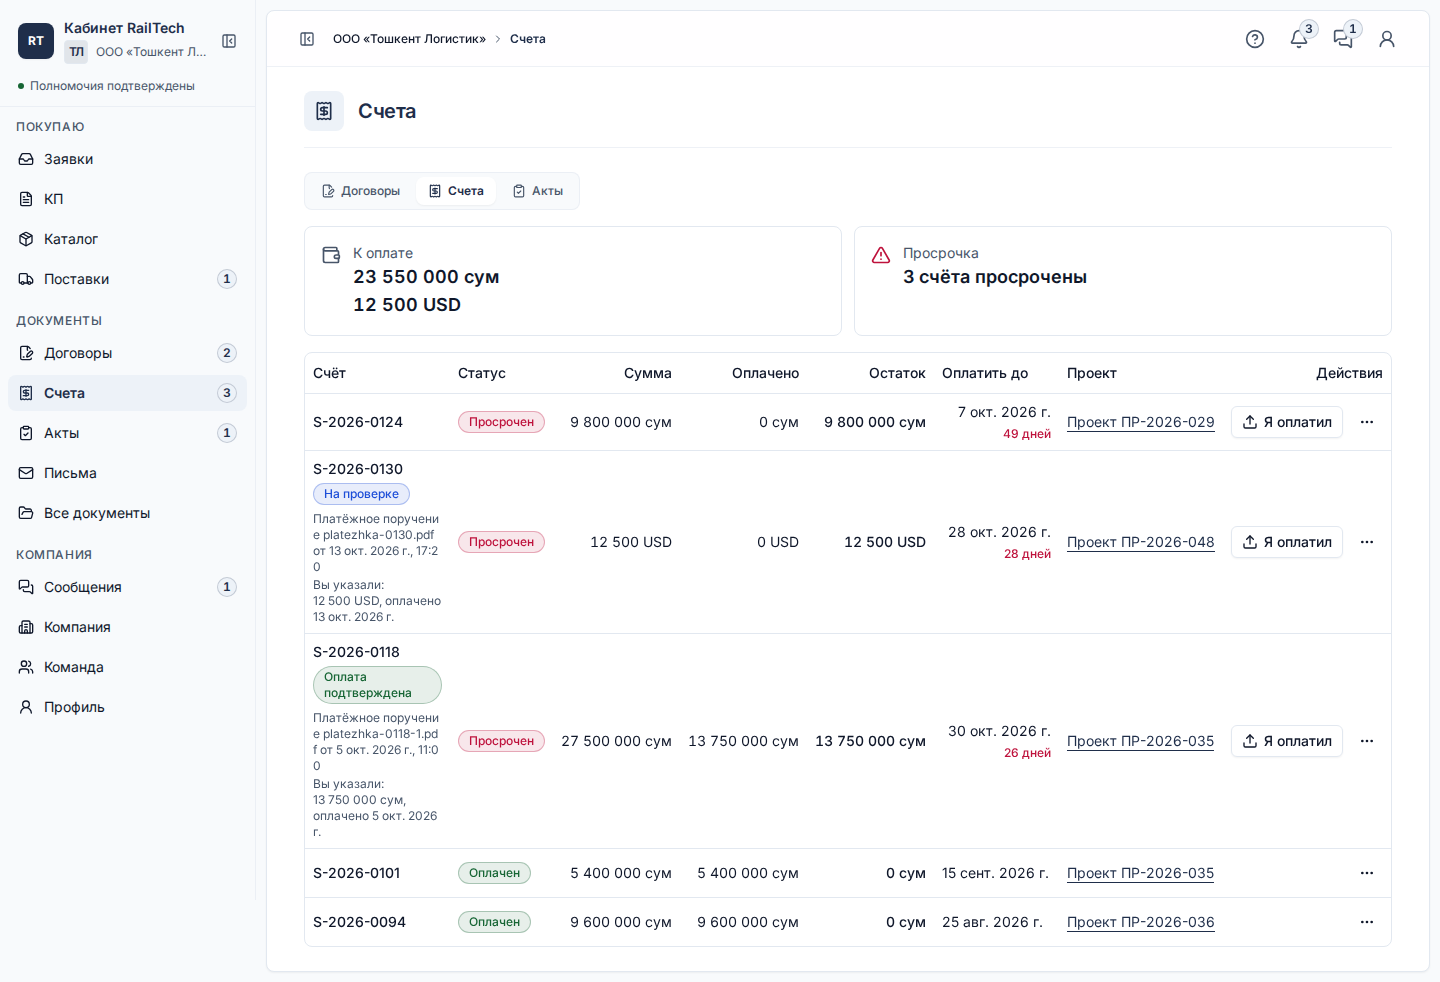
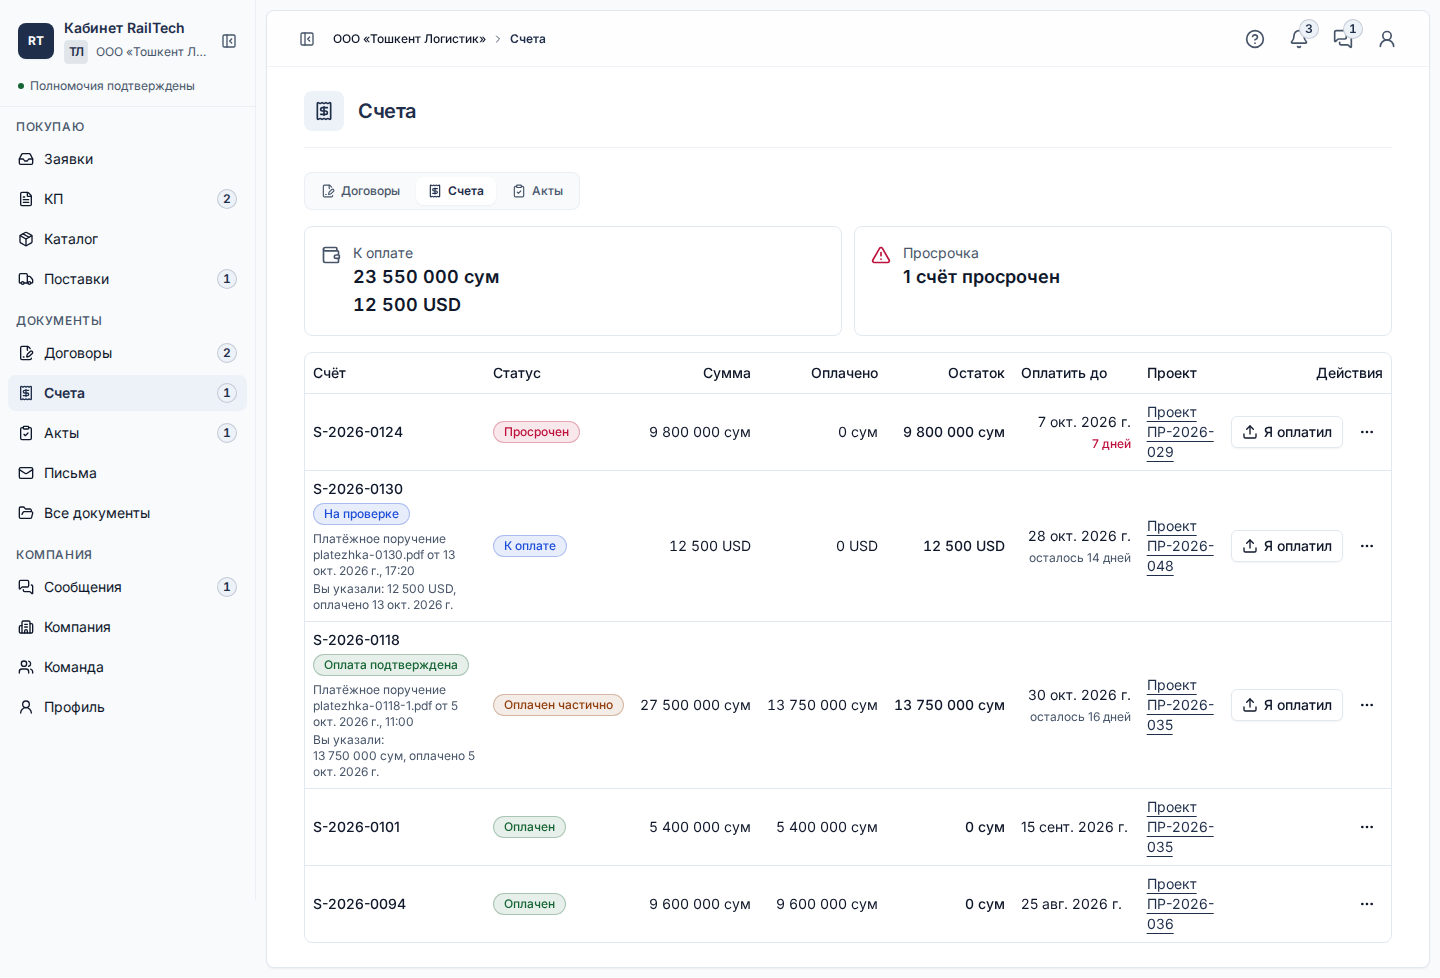
fix(cabinet,platform): review fixes - action tests with mutations, nowrap status labels, contract word on the CRM client card, act row without contract (SC-8)
Claude-Session: https://claude.ai/code/session_01PWGEKSEeREB93LLZqRcCYv

diff --git a/apps/cabinet/src/__tests__/deal-and-list.test.tsx b/apps/cabinet/src/__tests__/deal-and-list.test.tsx
@@ -76,6 +76,34 @@ describe('Сделка (deep-link бота)', () => {
     expect(within(screen.getByRole('region', { name: 'Счета' })).queryByText('Я оплатил')).toBeNull();
   });
 
+  it('СЦ-8: КП, ждущее решения, — «Ответить»; истёкшее — без кнопки', async () => {
+    signedIn();
+    renderApp('/deals/57');
+    await heading(/ПР-2026-057/);
+    expect(within(await screen.findByRole('region', { name: 'КП' })).getByText('Ответить')).toBeInTheDocument();
+  });
+
+  it('СЦ-8: истёкшее КП — без кнопки «Ответить»', async () => {
+    signedIn();
+    renderApp('/deals/33');
+    await heading(/ПР-2026-033/);
+    const quotes = await screen.findByRole('region', { name: 'КП' });
+    expect(within(quotes).getByText('KP-2026-0033', { exact: false })).toBeInTheDocument();
+    expect(within(quotes).queryByText('Ответить')).toBeNull();
+  });
+
+  it('СЦ-8: контакт без права действовать видит статус, но не кнопки действий', async () => {
+    signedIn('viewer');
+    const { unmount } = renderApp('/deals/29');
+    await screen.findByText('D-2026-0029');
+    expect(await screen.findByText('S-2026-0124')).toBeInTheDocument();
+    expect(screen.queryByText('Kelişiş')).toBeNull(); // «Согласовать» (uz — язык контакта-зрителя)
+    expect(screen.queryByText('Töladim')).toBeNull(); // «Я оплатил»
+    expect(screen.queryByText('Согласовать')).toBeNull();
+    expect(screen.queryByText('Я оплатил')).toBeNull();
+    unmount(); // сырые суммы моков сессии зрителя (не СЦ-8) не должны ловиться охраной текста
+  });
+
   it('чужая сделка — «не найдено»', async () => {
     signedIn();
     renderApp('/deals/999');

diff --git a/apps/cabinet/src/pages/billing.tsx b/apps/cabinet/src/pages/billing.tsx
@@ -224,7 +224,7 @@ export function InvoicesPage() {
               {
                 id: 'status',
                 header: t('pages.invoices.columns.status'),
-                cell: (row) => <StatusBadge entity="invoice" code={views.get(row.id)?.displayStatus ?? row.status} />,
+                cell: (row) => <StatusBadge entity="invoice" code={views.get(row.id)?.displayStatus ?? row.status} nowrap />,
                 className: 'whitespace-nowrap',
               },
               { id: 'total', header: t('pages.invoices.columns.total'), cell: (row) => formatMoney(row.total), className: 'text-right tabular-nums whitespace-nowrap' },
@@ -249,7 +249,7 @@ export function InvoicesPage() {
                   );
                 },
               },
-              { id: 'deal', header: t('pages.invoices.columns.deal'), cell: (row) => <DealLink deal={row.deal} /> },
+              { id: 'deal', header: t('pages.invoices.columns.deal'), cell: (row) => <DealLink deal={row.deal} />, className: 'max-w-36 whitespace-normal' },
             ]}
             actions={{
               header: t('common.actions'),
@@ -291,7 +291,7 @@ function ProofList({ invoice }: { invoice: Invoice }) {
         items={invoice.proofs.map((proof) => (
           <li key={proof.id} className="flex min-w-0 flex-col gap-0.5">
             <span className="flex flex-wrap items-center gap-1.5">
-              <StatusBadge entity="proof" code={proof.status} />
+              <StatusBadge entity="proof" code={proof.status} nowrap />
               <span className="min-w-0 break-words text-muted-foreground" title={proof.file_name}>
                 {t('pages.invoices.proofLine', { name: proof.file_name, date: formatDateTime(proof.submitted_at) })}
               </span>

diff --git a/apps/cabinet/src/components/StatusBadge.tsx b/apps/cabinet/src/components/StatusBadge.tsx
@@ -18,18 +18,22 @@ const TONE_CLASS: Record<StatusTone, string> = {
   neutral: 'border-border bg-muted text-muted-foreground',
 };
 
-export function ToneBadge({ tone, children, className }: { tone: StatusTone; children: React.ReactNode; className?: string }) {
+export function ToneBadge({ tone, children, className, nowrap }: { tone: StatusTone; children: React.ReactNode; className?: string; nowrap?: boolean }) {
   return (
-    <Badge variant="outline" className={cn('rounded-full px-2.5 py-0.5 text-xs font-medium whitespace-normal', TONE_CLASS[tone], className)}>
+    <Badge variant="outline" className={cn('rounded-full px-2.5 py-0.5 text-xs font-medium', nowrap ? 'whitespace-nowrap' : 'whitespace-normal', TONE_CLASS[tone], className)}>
       {children}
     </Badge>
   );
 }
 
 /** Бейдж статуса сущности контракта: подпись из `status.<entity>.<code>`, тон из `lib/status`. */
-export function StatusBadge<E extends StatusEntity>({ entity, code }: { entity: E; code: StatusCode<E> }) {
+export function StatusBadge<E extends StatusEntity>({ entity, code, nowrap }: { entity: E; code: StatusCode<E>; nowrap?: boolean }) {
   const { t } = useTranslation();
-  return <ToneBadge tone={statusTone(entity, code)}>{t(statusLabelKey(entity, code))}</ToneBadge>;
+  return (
+    <ToneBadge tone={statusTone(entity, code)} nowrap={nowrap}>
+      {t(statusLabelKey(entity, code))}
+    </ToneBadge>
+  );
 }
 
 /**

diff --git a/apps/platform/web/src/modules/eds/projects/ProjectView.tsx b/apps/platform/web/src/modules/eds/projects/ProjectView.tsx
@@ -185,7 +185,9 @@ function Documents({ card, objectId }: { card: ProjectCard; objectId: string }) 
         <DocRow
           number="—"
           type={t("card.documents.act")}
-          status={<span className="pf-hint">{actHint(card.act_blocker, t)}</span>}
+          status={
+            <span className="pf-hint">{actHint(card.act_blocker, t, contract !== null)}</span>
+          }
           action={canIssueAct ? <ActIssueButton objectId={objectId} /> : null}
         />
       )}
@@ -194,10 +196,15 @@ function Documents({ card, objectId }: { card: ProjectCard; objectId: string }) 
 }
 
 /** Статус строки «Акт» из факта `act_blocker` (почему акт нельзя выпустить), а не общая фраза. */
-function actHint(blocker: ProjectCard["act_blocker"], t: TFunction<"projects">): string {
+function actHint(
+  blocker: ProjectCard["act_blocker"],
+  t: TFunction<"projects">,
+  hasContract: boolean,
+): string {
   switch (blocker) {
     case "no_invoice":
-      return t("act.none.noInvoice");
+      // До договора счёта не будет и просить его выставить нельзя (ui-standard §14.2)
+      return hasContract ? t("act.none.noInvoice") : t("card.documents.actMissing");
     case "forbidden":
       return t("act.none.forbidden");
     case "not_delivered":

diff --git a/apps/platform/web/src/modules/eds/projects/ProjectCard.test.tsx b/apps/platform/web/src/modules/eds/projects/ProjectCard.test.tsx
@@ -140,6 +140,14 @@ describe("Проект: карточка", () => {
     expect(screen.getAllByText(ruProjects.clientStatus.contract_review)).toHaveLength(1);
   });
 
+  it("СЦ-8: у проекта без договора в строке «Акт» — «Акта ещё нет.», без просьбы выставить счёт", async () => {
+    signIn("director@demo.example");
+    renderAt(PR(104));
+    const docs = await screen.findByRole("region", { name: "Документы проекта" });
+    expect(within(docs).getByText("Акта ещё нет.")).toBeVisible();
+    expect(docs).not.toHaveTextContent("выставьте его");
+  });
+
   it("«История»: журнал проекта один, договор/акт — фильтры; пустые вкладки не показываются", async () => {
     signIn("accountant@demo.example");
     renderAt(PR(97));

diff --git a/apps/platform/bff/tests/test_crm_clients.py b/apps/platform/bff/tests/test_crm_clients.py
@@ -7,6 +7,8 @@ CRM — на respx (`crm_leads_support`), ответы BFF сверяются с
 уходит в браузер (заметки клиента, примечание контакта), 404 клиента.
 """
 
+from datetime import UTC, datetime
+
 import httpx
 import pytest
 
@@ -471,3 +473,37 @@ async def test_card_360_marks_a_contact_whose_letters_do_not_arrive(
         "reason": "mailbox_not_found",
         "at": "2026-11-24T10:15:00Z",
     }
+
+
+@pytest.mark.parametrize(
+    ("external_stage", "expected"),
+    [
+        (
+            "accepted",
+            "contract_preparing",
+        ),  # КП принято, договора у клиента нет: согласовывать нечего (СЦ-8)
+        ("contract", "contract_review"),
+        ("invoiced", "awaiting_payment"),
+    ],
+)
+def test_client_sees_follows_the_erp_stage_not_only_the_step(
+    external_stage: str, expected: str
+) -> None:
+    from types import SimpleNamespace
+
+    from app.crm_clients_view import request_row
+
+    deal = SimpleNamespace(
+        id=1,
+        erp_number="ЗВ-1",
+        title="Т",
+        request_summary="",
+        stage="open",
+        external_stage=external_stage,
+        request_urgency="normal",
+        erp_request_status="done",
+        erp_request_error=None,
+        created_at=datetime(2026, 11, 1, tzinfo=UTC),
+        request_letter_file_id=None,
+    )
+    assert request_row(deal).client_sees == expected  # type: ignore[arg-type]

diff --git a/apps/platform/bff/app/crm_clients_view.py b/apps/platform/bff/app/crm_clients_view.py
@@ -191,6 +191,8 @@ _STEP: dict[str, StepCode] = {
 _PROJECT: frozenset[StepCode] = frozenset({"CONTRACT", "PAYMENT", "DONE"})
 # Что видит клиент: сначала точная стадия ERP, затем — по шагу.
 _SEES_STAGE: dict[str, ClientSees] = {
+    # КП принято, договора у клиента ещё нет: согласовывать нечего (СЦ-8)
+    "accepted": "contract_preparing",
     "invoiced": "awaiting_payment",
     "paid": "fulfilling",
     "fulfilment": "fulfilling",
@@ -218,7 +220,7 @@ def step_of(deal: CrmDeal) -> StepCode:
 
 def request_row(deal: CrmDeal) -> ClientRequestRow:
     step = step_of(deal)
-    sees = _SEES_STAGE.get(deal.external_stage or "") if step == "PAYMENT" else None
+    sees = _SEES_STAGE.get(deal.external_stage or "") if step in ("CONTRACT", "PAYMENT") else None
     return ClientRequestRow(
         deal=deal.id,
         number=deal.erp_number,

diff --git a/apps/platform/bff/app/schemas_crm_leads.py b/apps/platform/bff/app/schemas_crm_leads.py
@@ -36,6 +36,7 @@ DocumentType = Literal["contract", "proposal", "letter", "invoice", "act", "othe
 ClientSees = Literal[
     "in_work",
     "awaiting_decision",
+    "contract_preparing",
     "contract_review",
     "contract_signing",
     "awaiting_payment",

diff --git a/docs/kb/help/projects.md b/docs/kb/help/projects.md
@@ -42,7 +42,7 @@ screens: [/eds/projects]
 Кнопка «Выпустить акт» появляется, когда есть выставленный счёт и товар доставлен клиенту («Доставлено» или «Принято клиентом»). До этого в карточке написано «Акт — после доставки», а строки «Выпустить акт» в «Моих задачах» нет; сервер тоже не выпустит акт раньше. Отметки «Отправлено, в пути» и «Доставлено» для товара из каталога появляются после отгрузки со склада: до неё в исполнении подсказка «Отметки — после отгрузки со склада». Товар без карточки каталога отмечается вручную, как раньше.
 
 ## Акт принят клиентом или подписан по скану
-Слово «скан» в статусе акта стоит только там, где файл есть. Если клиент принял акт в кабинете и файла нет, акт в списке и в карточке — «Принят клиентом», а дата — «Принят». Если сотрудник приложил скан подписанного акта, статус остаётся «Подписан (скан)». Проект становится «Выполнено», когда акт принят или подписан по скану и оплачены все счета. Пока у проекта нет счёта, в документах написано, что он появится после подписания договора; когда договор уже подписан, а счёта нет, подсказка — выставить счёт в «Финансы».
+Слово «скан» в статусе акта стоит только там, где файл есть. Если клиент принял акт в кабинете и файла нет, акт в списке и в карточке — «Принят клиентом», а дата — «Принят». Если сотрудник приложил скан подписанного акта, статус остаётся «Подписан (скан)». Проект становится «Выполнено», когда акт принят или подписан по скану и оплачены все счета. Пустые строки документов говорят коротко: «Проекта договора ещё нет.», «Счёта ещё нет.», «Акта ещё нет.»; когда договор уже подписан, а счёта нет, подсказка — выставить счёт в «Финансы».
 
 ## Ссылка клиента на договор, счёт и акт
 Договор, счёт и акт уходят клиенту письмом с личной ссылкой в Кабинет. Под строкой документа в карточке проекта блок «Ссылка клиента в Кабинете» показывает каждого получателя: адрес (частично скрыт), когда ушла ссылка, открывал ли её клиент и до какого числа она действует. Блок есть, только если документ клиенту уже отправляли, и виден тому, кто вправе его отправлять: договор — тот, кто ведёт договор, счёт — бухгалтер, акт — тот, кто выпускает акты; остальные блок не видят.
